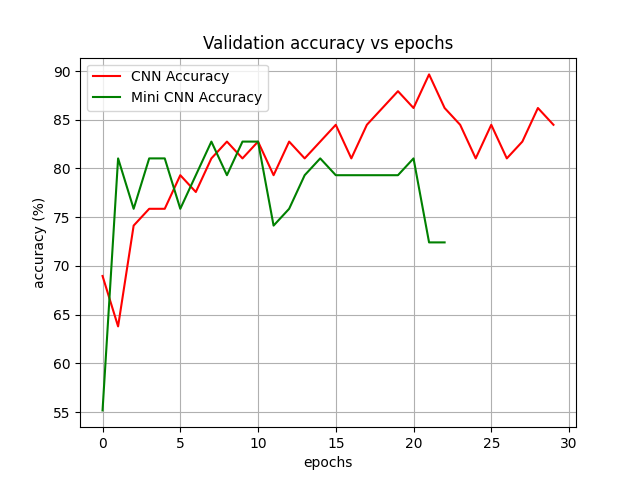
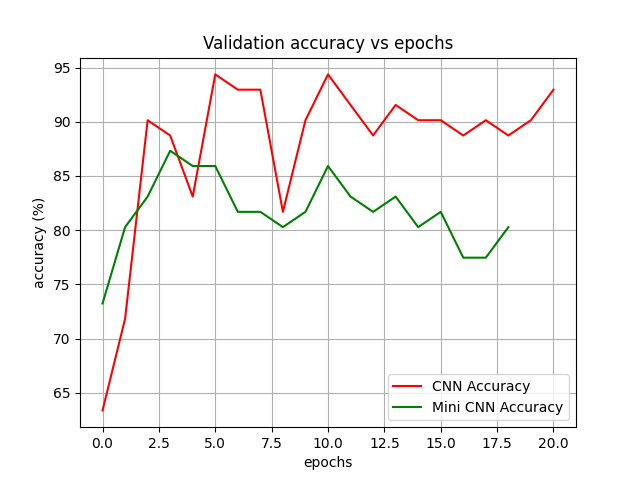
new best on seitlich

diff --git a/Anomalieerkennung_DNN/main_seitlich.py b/Anomalieerkennung_DNN/main_seitlich.py
@@ -21,11 +21,11 @@ image_size = (224, 224)
 
 use_augmentation = True
 
-num_augmented_images_per_original = 50
+num_augmented_images_per_original = 80
 
-epoch = 30
+epoch = 50
 
-batch_size = 8
+batch_size = 32
 
 num_classes = len(os.listdir(image_directory))
 
